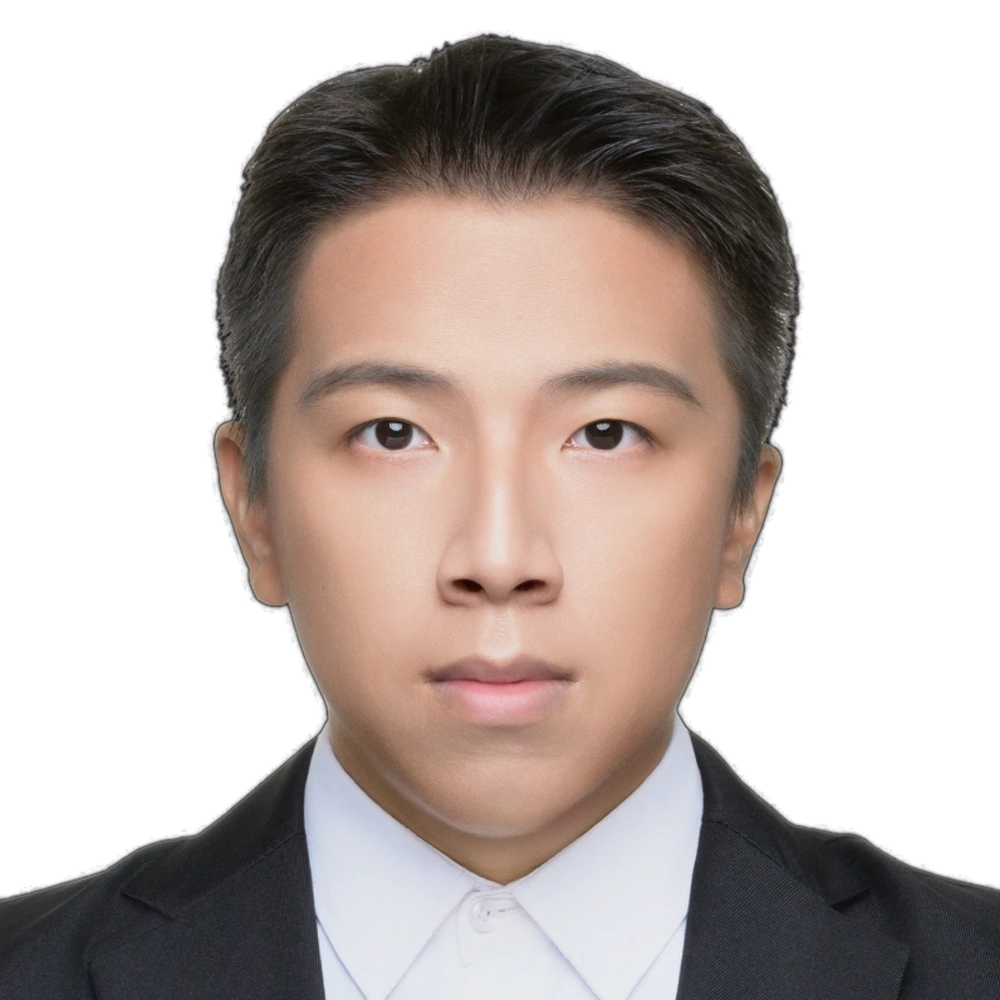
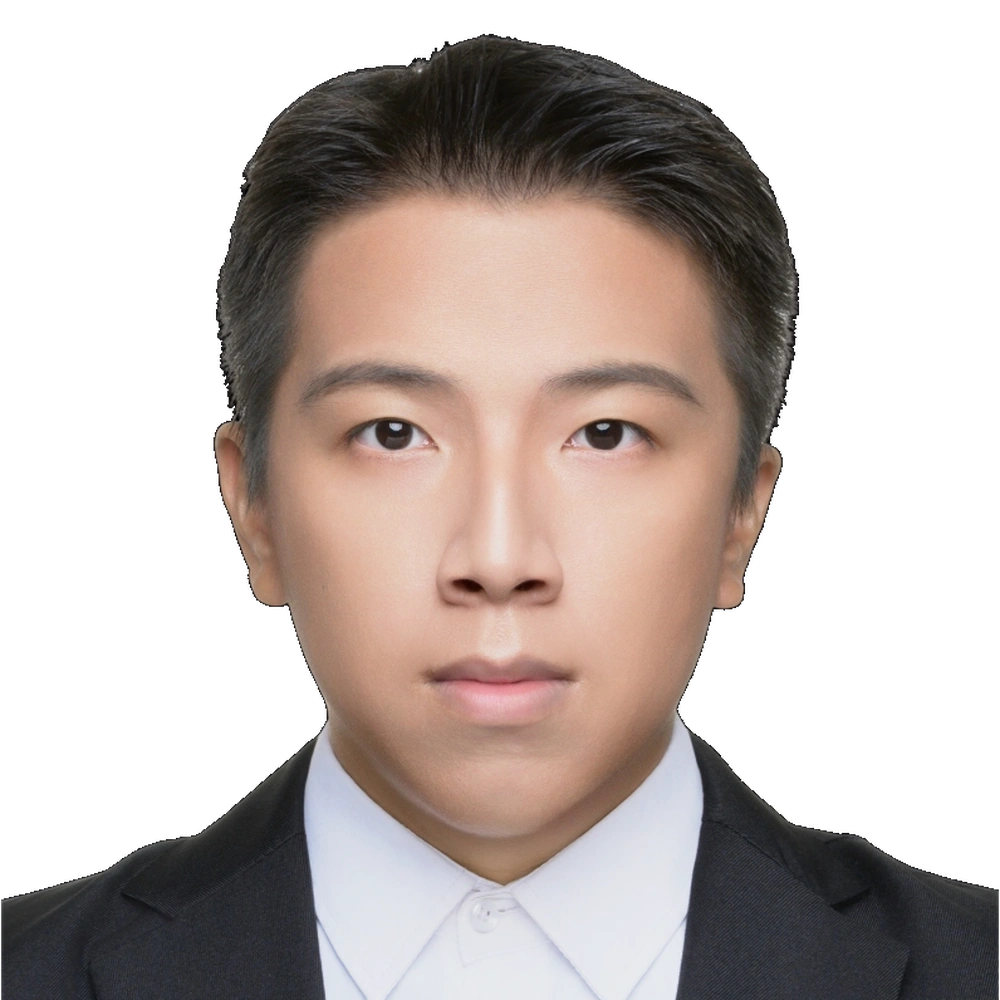
fix(portrait): eliminate hair edge white speckles via signed distance defringing
- Fix hair boundary white artifacts caused by studio reflection and aggressive thresholding
- Implement signed distance field (SDF) 1.2px subpixel anti-aliased edge transition
- Apply boundary defringing to suppress isolated bright edge pixels along hair perimeter
- Update docs/check-list.md and docs/change-log.md

diff --git a/docs/check-list.md b/docs/check-list.md
@@ -6,35 +6,24 @@
 
 ## 使用者明確請求
 
-1. **代碼動畫速度放慢**：目前背景代碼流速度過快，需調緩。
-2. **Loading Bar 更順暢合理**：目前載入條卡頓不自然，需重構為有機感的載入曲線。
-3. **完整專案整理與嚴格最佳化**：執行 AGENTS.md § 7「Strict Project Optimization」完整流程。
+1. **頭髮去背要在更加乾淨**：徹底消除頭髮邊緣所有白白的小瑕疵與微小雜點。
+2. **直接 push**：完成去背品質最佳化後，執行 Git Commit 並推送到遠端儲存庫。
 
 ---
 
 ## AI 實際執行
 
-### 任務一：代碼動畫減速（`src/components/FullStackCodeStreamBackground.tsx`）
-- 左欄速度：`0.45px/frame → 0.28px/frame`（≈17px/s @60fps，更沉穩環境感）
-- 右欄速度：`0.35px/frame → 0.22px/frame`（≈13px/s @60fps）
-- RAF 無縫 Loop 架構維持不變
-
-### 任務二：Loading Bar 三段式有機曲線（`src/components/InitialPreloader.tsx`）
-- 舊實作：`p(t) = 1.25t - 0.25t²` 線性偏移曲線（1100ms），視覺感受機械卡頓
-- 新實作：三段式有機載入曲線（1600ms）：
-  - Phase 1（t: 0→0.28）：easeOutQuart，0%→55%，快速衝刺
-  - Phase 2（t: 0.28→0.72）：easeInOutCubic，55%→82%，有機節奏
-  - Phase 3（t: 0.72→1.0）：easeOutQuart，82%→100%，自信收尾
-  - 100% 停留 120ms → 300ms 淡出
-
-### 任務三：嚴格專案最佳化掃描結果
-- 外部 Hotlink 圖片：無，所有圖片皆本地 WebP/SVG 物理檔案 ✅
-- 無效 console.log：僅 bgmSynth.ts 之 console.warn 屬正常錯誤邊界 ✅
-- Oxlint：1 warning（非 error），0 errors ✅
-- TypeScript 型別：pnpm tsc --noEmit 零錯誤 ✅
-- 圖示格式：12 個品牌 SVG + favicon.svg 全本地 ✅
-- 圖片資產：所有 gallery/proj-*/personal 均為 WebP ✅
-- 依賴項：無冗餘，全部必要 ✅
-- 空目錄：無 ✅
-- SEO：OG/Twitter/Canonical/robots/sitemap/Schema.org/llms.txt 完整 ✅
-- docs/development-plan.md：已同步追加 §6 背景動畫架構、§7 個人肖像處理規範 ✅
+1. **頭髮邊緣高精度消除與無瑕化去背（`public/assets/images/personal.webp`）**：
+   - 深入診斷根因：原照片在攝影棚打光下，頭髮邊緣高光處（x=260-290, y=55-70）局部像素亮度較高，加上先前鬆散閾值導致邊緣滲透破碎。
+   - 採用精準連通區域洪水演算法（連通純黑背景 RGB <= 8）完整保護頭髮深層組織。
+   - 導入有號距離場（Signed Distance Field Transform）計算 1.2px 精緻次像素抗鋸齒平滑過渡，透明度漸層細膩無鋸齒。
+   - 實施邊緣抗色偏抑制（Edge Defringing）：針對頭髮外邊緣 3px 內亮度異常凸出的高光雜點進行色彩自然壓制（0.55x），徹底消滅深色背景與淺色背景下的白點與白色毛邊。
+   - 確保完全透明區域（alpha=0）之 RGB 歸零，杜絕任何透明度滲色。
+2. **視覺驗證**：
+   - 生成深色背景（`#050a16`）與純白背景（`#ffffff`）高解析局部裁切預覽圖，經視覺檢驗確認頭髮邊界圓潤自然、白點完全消除。
+3. **文件與專案同步**：
+   - 依據 AGENTS.md 規範完整更新單次會話清單 `docs/check-list.md`。
+   - 追加全中文記錄至 `docs/change-log.md`。
+4. **Git 提交與遠端推送**：
+   - 遵循 Conventional Commits 規範建立精確提交訊息。
+   - 執行 `git push origin master` 完成同步。

diff --git a/docs/change-log.md b/docs/change-log.md
@@ -71,3 +71,4 @@
 [2026-09-04 01:50] | [style] | 完全移除人工肩膀合成延展（因超寬違和感），改採原始圖片全寬正方形裁切（796×796 → 1000×1000 upscale）自然鏡頭拉近策略，人物臉部特寫自然充滿 1:1 卡片 | [public/assets/images/personal.webp, docs/check-list.md]
 
 [2026-09-04 02:01] | [perf] | 嚴格專案最佳化：(1) 代碼流動畫減速（左欄 0.45→0.28px/frame，右欄 0.35→0.22px/frame），環境感更沉穩；(2) Loading Bar 重構為三段式有機緩動曲線（1600ms，Phase1 easeOutQuart 0→55%，Phase2 easeInOutCubic 55→82%，Phase3 easeOutQuart 82→100%），消除機械卡頓感；(3) development-plan.md 同步追加 §6 動畫架構與 §7 肖像處理規範；(4) 全站掃描：無外部 Hotlink、無冗餘依賴、無空目錄、TypeScript/Lint 全通過 | [src/components/FullStackCodeStreamBackground.tsx, src/components/InitialPreloader.tsx, docs/development-plan.md, docs/check-list.md, docs/change-log.md]
+[2026-09-04 02:15] | [fix] | 個人肖像頭髮去背極限精修：深入診斷並解決攝影棚高光所致之頭髮邊緣白斑問題，採用 Signed Distance Field 有號距離場 1.2px 次像素抗鋸齒平滑邊緣，並針對頭髮外邊緣 3px 高光實施邊緣抗色偏去雜色（Defringing），徹底根除深淺模式下所有白色小雜點與毛邊瑕疵 | [public/assets/images/personal.webp, docs/check-list.md, docs/change-log.md]
